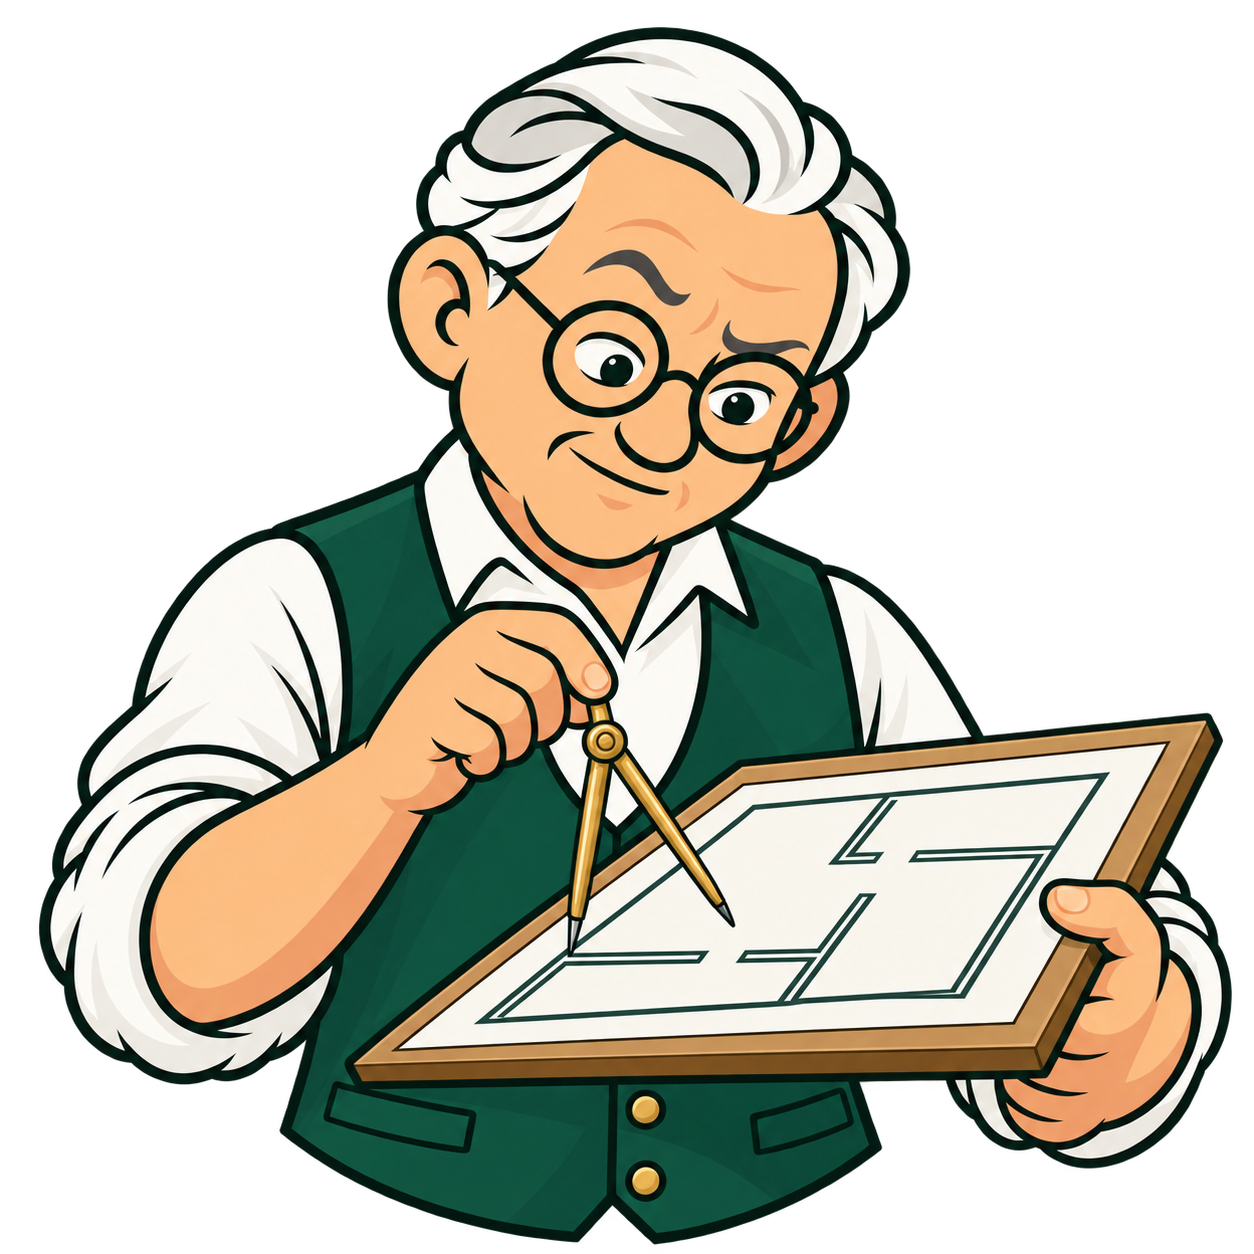
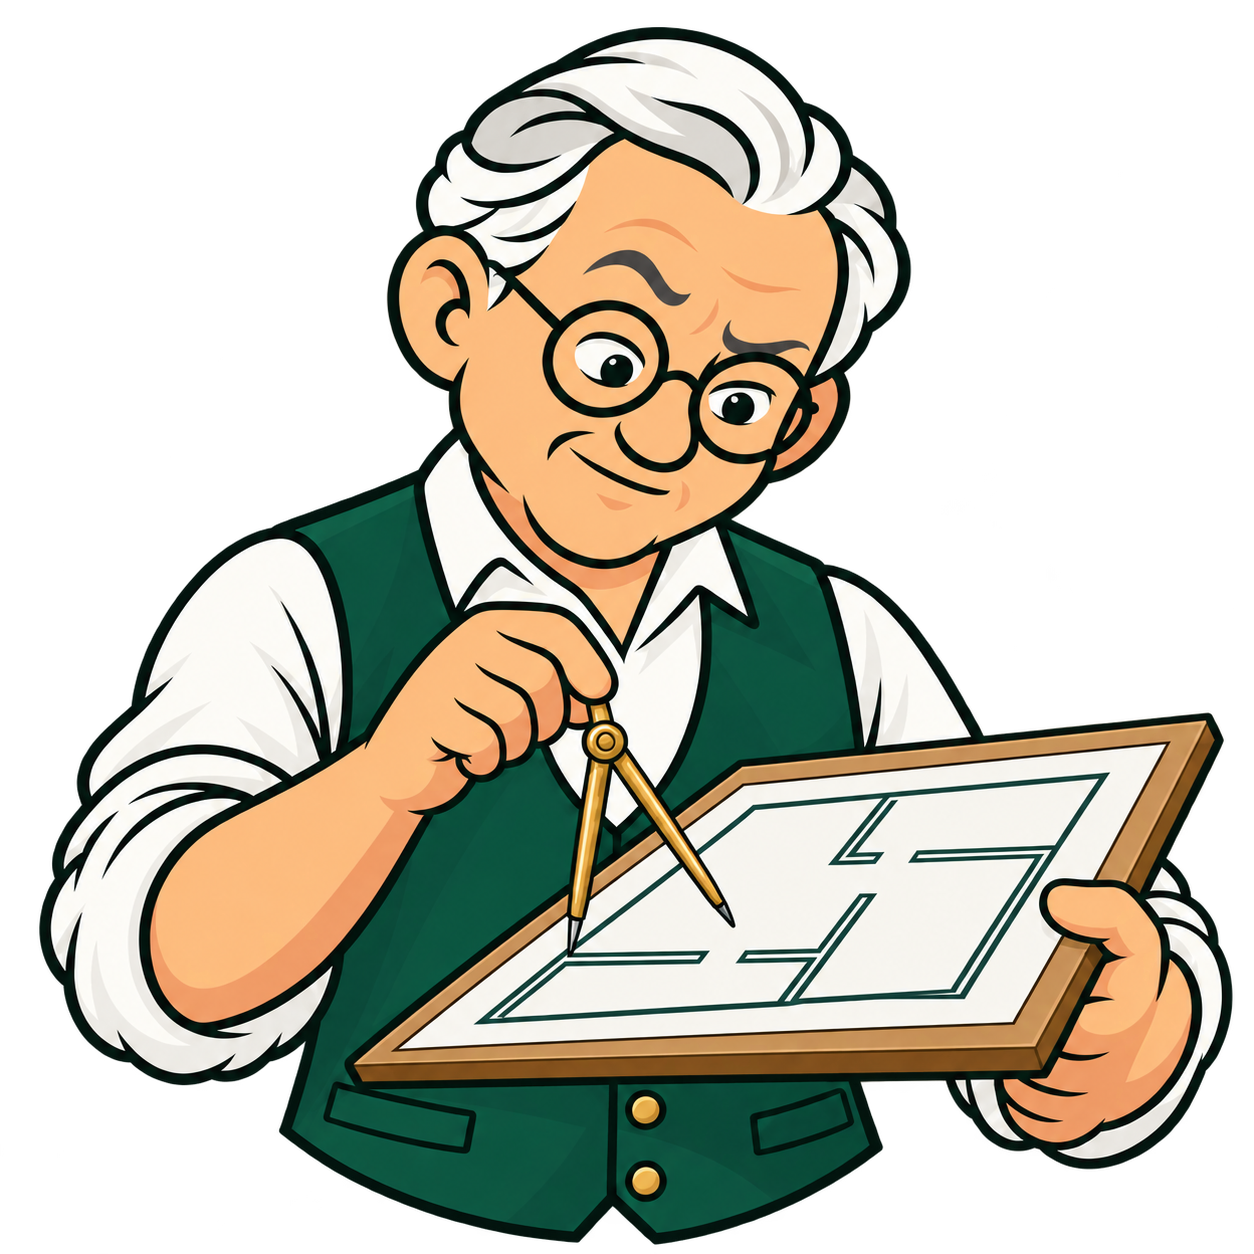
Match mascot hand details to the project family

diff --git a/docs/brand/image-prompts.md b/docs/brand/image-prompts.md
@@ -2,8 +2,8 @@
 
 Approved canonical assets: [mascot PNG](progettare-architect.png),
 [mark SVG](progettare-mark.svg), and [mark PNG](progettare-mark.png).
-The approved mascot is v2 and the approved mark is v3. See the
-[brand guide](README.md), v2 correction record, and v3 projection correction below.
+The final mascot and mark are both v3. See the [brand guide](README.md),
+v2 correction record, and v3 projection and hand style corrections below.
 
 First concept generated 2026-10-12 using the built-in image generation tool.
 The original PNG files are unmodified outputs from the built-in image generation tool.
@@ -121,3 +121,18 @@ This revision changes only the arc geometry and its description. The mascot,
 hand, compass, palette, and background retain their v2 artwork. The PNG is a
 1254 × 1254 transparent export from CairoSVG. The SVG geometry and raster
 export were checked; no image generation was needed for this vector edit.
+
+## Mascot hand style correction (v3)
+
+The final mascot removes the two outlined thumbnails to match the smooth
+fingertips used by Scrutare and QAre. `progettare-architect-v3.png` is the
+unmodified output of a targeted built-in image edit of v2 and is also saved
+as the canonical `progettare-architect.png`. The projected-arc mark remains v3.
+
+### Prompt
+
+Use case: precise-object-edit.
+Edit target: the attached approved Progettare architect mascot.
+Make one small style correction: remove the two outlined thumbnail ovals, one on the hand holding the compass near the middle of the image and one on the hand supporting the board at the right. Fill those tiny interior oval details with the adjacent warm skin color and its existing gentle shading. The fingers should have smooth, plain surfaces without drawn nails or cuticle lines, matching the simple hand treatment of the other family mascots.
+Keep the silhouette, finger shapes, grips, dark outer contours, face, hair, glasses, expression, clothing, compass, board, plan, colors, framing and all other details exactly as in this image. Do not redesign or reposition anything.
+Preserve the transparent background and the opaque illustrated character. Output one corrected mascot PNG.

diff --git a/docs/brand/README.md b/docs/brand/README.md
@@ -18,7 +18,8 @@ Use these stable filenames in documentation, websites, and integrations:
 | Mark master | [progettare-mark.svg](progettare-mark.svg) | Scalable SVG, transparent corners |
 | Mark raster | [progettare-mark.png](progettare-mark.png) | 1254 × 1254 PNG, transparent corners |
 
-The canonical mascot is the approved v2 illustration. The canonical mark is
+The canonical mascot is the v3 illustration with smooth fingertips matching
+the sibling mascots. The canonical mark is
 the approved v3 design with the projected ellipse. Versioned files preserve the
 design iterations; new uses should reference the canonical files above.
 
